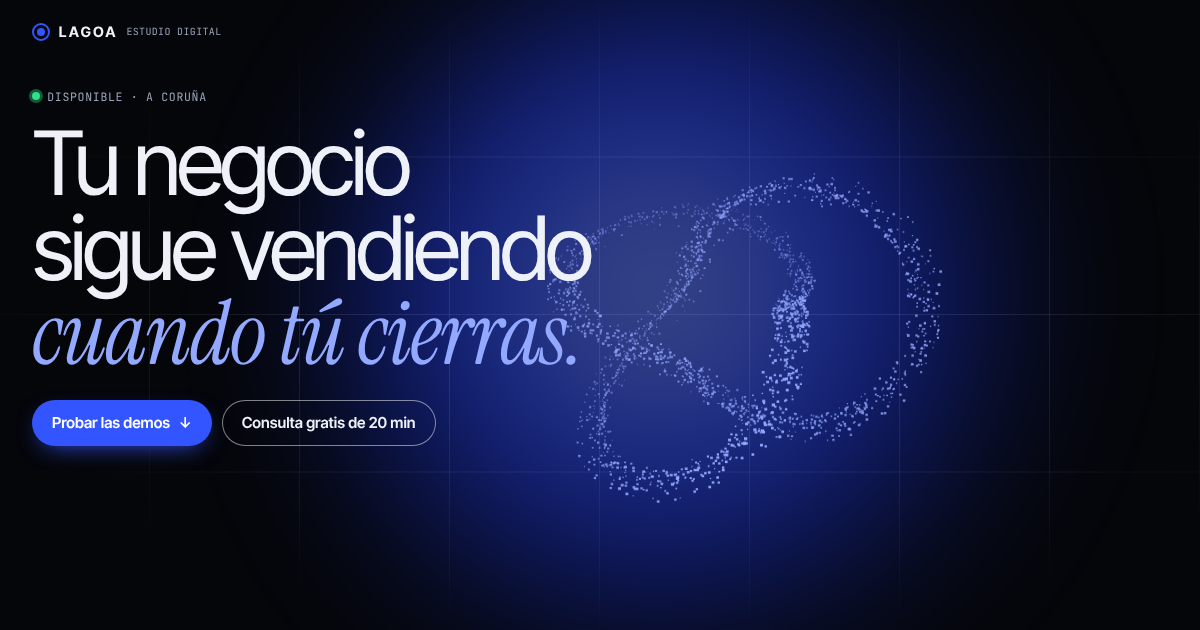
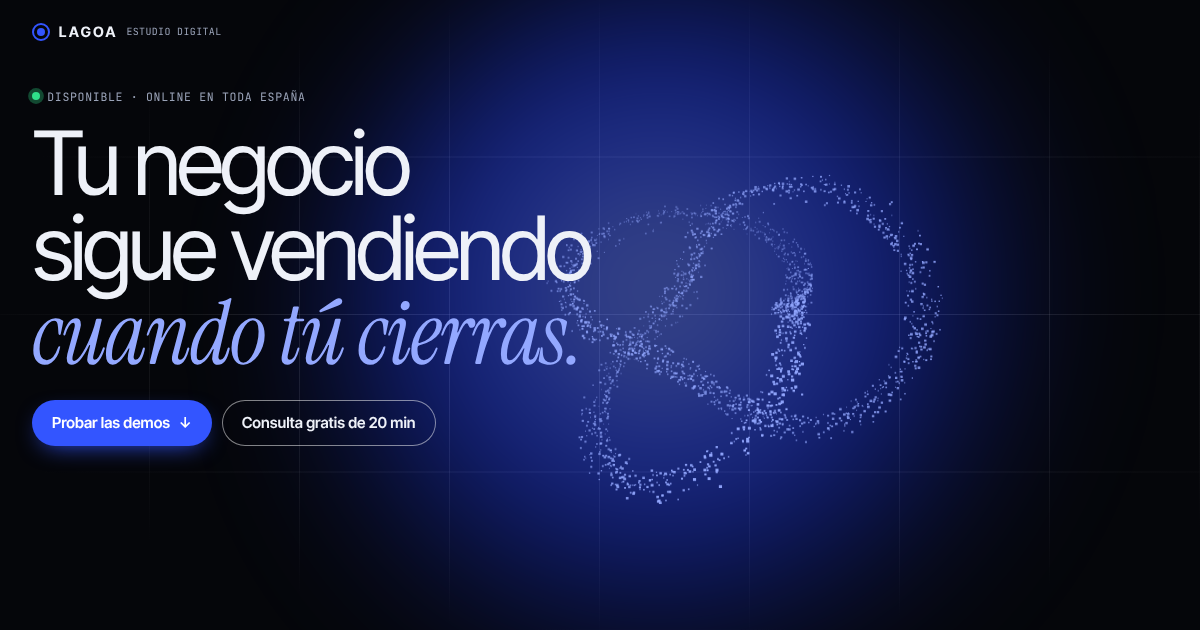
content: don't limit the studio to one city (copy, schema, bot, in-person option removed)
Claude-Session: https://claude.ai/code/session_014qfzgPxD5GvET3rt2GUXgf

diff --git a/web-profesional/api/_lib/bot.js b/web-profesional/api/_lib/bot.js
@@ -30,19 +30,19 @@ const T = {
       nadia: ['Hablar con Nadia', 'Te responde ella en persona']
     },
     b: { menu: 'Menú', reservar: 'Reservar consulta', nadia: 'Hablar con Nadia', confirmar: 'Confirmar', cambiar: 'Cambiar hora', cancelar: 'Cancelar', saltar: 'Saltar', si: 'Sí, cancelarla', no: 'No', soy: n => `Soy ${n}`, dias: 'Ver días', horas: 'Ver horas', otroDia: '« Otro día', libres: n => `${n} ${n === 1 ? 'hora libre' : 'horas libres'}`, anular: f => `Cancelar ${f}` },
-    servicios: () => `Ayudo a negocios en crecimiento de A Coruña a estar en internet sin complicaciones:\n\n${SERVICIOS.map(s => `• *${s.es}*: ${eur(s.precio)}`).join('\n')}\n• *${PACK.es}*: ${eur(PACK.precio)}\n\nTambién cosas a medida: panel de ventas y stock, facturas automáticas, tarjeta de fidelización y mucho más.`,
+    servicios: () => `Ayudamos a negocios en crecimiento a estar en internet sin complicaciones:\n\n${SERVICIOS.map(s => `• *${s.es}*: ${eur(s.precio)}`).join('\n')}\n• *${PACK.es}*: ${eur(PACK.precio)}\n\nTambién cosas a medida: panel de ventas y stock, facturas automáticas, tarjeta de fidelización y mucho más.`,
     precios: () => `Tarifas fijas de lanzamiento, pago único, *IVA incluido*:\n\n${SERVICIOS.map(s => `• ${s.es}: ${eur(s.precio)}`).join('\n')}\n• ${PACK.es}: ${eur(PACK.precio)}\n\nEl mantenimiento mensual es opcional (escribe *mantenimiento* para verlo).`,
     plazos: () => `Plazos orientativos:\n\n${[...SERVICIOS, PACK].map(s => `• ${s.es}: ${s.plazo.es}`).join('\n')}\n\nEmpiezan a contar cuando Nadia tiene tus textos y fotos.`,
     mantenimiento: () => `El mantenimiento es *opcional* y se puede cancelar cuando quieras (IVA incluido):\n\n${[...SERVICIOS.filter(s => s.mes), PACK].map(s => `• ${s.es}: ${eur(s.mes)}/mes`).join('\n')}\n\nIncluye copias de seguridad, revisión y parches en caso de error, cambios pequeños ilimitados y soporte por WhatsApp o email.`,
-    zona: () => 'Nadia trabaja con negocios de A Coruña. Si el tuyo está en otra zona, escríbele y valorará tu caso.',
+    zona: () => 'Trabajamos con negocios de toda España, en remoto: la consulta es por videollamada o llamada.',
     iva: () => 'Todos los precios ya incluyen el IVA (21 %).',
     pago: () => 'Las condiciones de pago las explica Nadia personalmente. Toca *Hablar con Nadia* y te responderá ella.',
     gracias: () => '¡Gracias a ti! Si necesitas algo más, aquí estoy.',
     noEntiendo: 'No estoy seguro de haberte entendido. Puedes elegir una opción del menú o hablar directamente con Nadia.',
     soloTexto: 'Por ahora solo puedo leer mensajes de texto. Si quieres enviar audios o fotos, toca *Hablar con Nadia*.',
     nadia: 'Perfecto. He avisado a Nadia y te responderá *personalmente por aquí* en cuanto pueda (normalmente el mismo día).\n\nMientras tanto el asistente queda en pausa. Si quieres volver a usarlo, escribe *menú*.',
-    modalidad: '¡Genial! La consulta rápida es *gratis y sin compromiso* (unos 20 minutos) para ver tu negocio y lo que más tiempo te quita.\n\n¿Cómo la prefieres? (En persona solo en A Coruña ciudad.)',
-    modos: ['Videollamada', 'Llamada', 'En persona'],
+    modalidad: '¡Genial! La consulta rápida es *gratis y sin compromiso* (unos 20 minutos) para ver tu negocio y lo que más tiempo te quita.\n\n¿Cómo la prefieres?',
+    modos: ['Videollamada', 'Llamada'],
     elegirDia: '¿Qué día te viene bien? Toca *Ver días*.',
     elegirHora: f => `Horas libres el *${f}* (hora de España). Toca *Ver horas*.`,
     sinHuecos: 'Ahora mismo no quedan horas libres en las próximas dos semanas. Escribe a Nadia y buscaréis un hueco.',
@@ -79,19 +79,19 @@ const T = {
       nadia: ['Falar con Nadia', 'Respóndeche ela en persoa']
     },
     b: { menu: 'Menú', reservar: 'Reservar consulta', nadia: 'Falar con Nadia', confirmar: 'Confirmar', cambiar: 'Cambiar hora', cancelar: 'Cancelar', saltar: 'Saltar', si: 'Si, cancelala', no: 'Non', soy: n => `Son ${n}`, dias: 'Ver días', horas: 'Ver horas', otroDia: '« Outro día', libres: n => `${n} ${n === 1 ? 'hora libre' : 'horas libres'}`, anular: f => `Cancelar ${f}` },
-    servicios: () => `Axudo a negocios en crecemento da Coruña a estar en internet sen complicacións:\n\n${SERVICIOS.map(s => `• *${s.gl}*: ${eur(s.precio)}`).join('\n')}\n• *${PACK.gl}*: ${eur(PACK.precio)}\n\nTamén cousas a medida: panel de vendas e stock, facturas automáticas, tarxeta de fidelización e moito máis.`,
+    servicios: () => `Axudamos a negocios en crecemento a estar en internet sen complicacións:\n\n${SERVICIOS.map(s => `• *${s.gl}*: ${eur(s.precio)}`).join('\n')}\n• *${PACK.gl}*: ${eur(PACK.precio)}\n\nTamén cousas a medida: panel de vendas e stock, facturas automáticas, tarxeta de fidelización e moito máis.`,
     precios: () => `Tarifas fixas de lanzamento, pagamento único, *IVE incluído*:\n\n${SERVICIOS.map(s => `• ${s.gl}: ${eur(s.precio)}`).join('\n')}\n• ${PACK.gl}: ${eur(PACK.precio)}\n\nO mantemento mensual é opcional (escribe *mantemento* para velo).`,
     plazos: () => `Prazos orientativos:\n\n${[...SERVICIOS, PACK].map(s => `• ${s.gl}: ${s.plazo.gl}`).join('\n')}\n\nComezan a contar cando Nadia ten os teus textos e fotos.`,
     mantenimiento: () => `O mantemento é *opcional* e pódese cancelar cando queiras (IVE incluído):\n\n${[...SERVICIOS.filter(s => s.mes), PACK].map(s => `• ${s.gl}: ${eur(s.mes)}/mes`).join('\n')}\n\nInclúe copias de seguridade, revisión e parches en caso de erro, cambios pequenos ilimitados e soporte por WhatsApp ou email.`,
-    zona: () => 'Nadia traballa con negocios da Coruña. Se o teu está noutra zona, escríbelle e valorará o teu caso.',
+    zona: () => 'Traballamos con negocios de toda España, en remoto: a consulta é por videochamada ou chamada.',
     iva: () => 'Todos os prezos xa inclúen o IVE (21 %).',
     pago: () => 'As condicións de pagamento explícaas Nadia persoalmente. Toca *Falar con Nadia* e responderache ela.',
     gracias: () => 'Grazas a ti! Se precisas algo máis, aquí estou.',
     noEntiendo: 'Non estou seguro de entenderte. Podes escoller unha opción do menú ou falar directamente con Nadia.',
     soloTexto: 'Polo de agora só podo ler mensaxes de texto. Se queres enviar audios ou fotos, toca *Falar con Nadia*.',
     nadia: 'Perfecto. Aviseille a Nadia e responderache *persoalmente por aquí* en canto poida (normalmente o mesmo día).\n\nMentres tanto o asistente queda en pausa. Se queres volver usalo, escribe *menú*.',
-    modalidad: 'Xenial! A consulta rápida é *de balde e sen compromiso* (uns 20 minutos) para ver o teu negocio e o que máis tempo che quita.\n\nComo a prefires? (En persoa só na cidade da Coruña.)',
-    modos: ['Videochamada', 'Chamada', 'En persoa'],
+    modalidad: 'Xenial! A consulta rápida é *de balde e sen compromiso* (uns 20 minutos) para ver o teu negocio e o que máis tempo che quita.\n\nComo a prefires?',
+    modos: ['Videochamada', 'Chamada'],
     elegirDia: 'Que día che vén ben? Toca *Ver días*.',
     elegirHora: f => `Horas libres o *${f}* (hora de España). Toca *Ver horas*.`,
     sinHuecos: 'Agora mesmo non quedan horas libres nas próximas dúas semanas. Escríbelle a Nadia e buscaredes un oco.',
@@ -280,7 +280,7 @@ export async function responder(chat, entrada) {
   switch (chat.paso) {
     case 'modalidad': {
       const m = id.match(/^mod:(\d)$/);
-      if (!m) return fin({ mensajes: [{ texto: L.usaBotones, botones: L.modos.map((x, i) => btn(`mod:${i}`, x)) }], paso: 'modalidad', datos });
+      if (!m || Number(m[1]) >= L.modos.length) return fin({ mensajes: [{ texto: L.usaBotones, botones: L.modos.map((x, i) => btn(`mod:${i}`, x)) }], paso: 'modalidad', datos });
       datos.modalidad = MODALIDADES[Number(m[1])];
       return fin(await preguntarDia(L, datos));
     }

diff --git a/web-profesional/index.html b/web-profesional/index.html
@@ -3,8 +3,8 @@
 <head>
 <meta charset="utf-8">
 <meta name="viewport" content="width=device-width, initial-scale=1, viewport-fit=cover">
-<title>Lagoa · Estudio digital en A Coruña</title>
-<meta name="description" content="Webs con reservas, asistente de WhatsApp, tiendas online y Google Maps para negocios de A Coruña. Precios cerrados con IVA incluido. Pruébalo todo en vivo.">
+<title>Lagoa · Estudio digital</title>
+<meta name="description" content="Webs con reservas, asistente de WhatsApp, tiendas online y Google Maps para negocios. Precios cerrados con IVA incluido. Pruébalo todo en vivo.">
 <link rel="canonical" href="https://lagoa-webs.vercel.app/">
 <meta name="theme-color" content="#eef0f4" media="(prefers-color-scheme: light)">
 <meta name="theme-color" content="#05060a" media="(prefers-color-scheme: dark)">
@@ -29,8 +29,7 @@
   "image": "https://lagoa-webs.vercel.app/img/og.png",
   "email": "nadialavi.work@gmail.com",
   "telephone": "+34613597453",
-  "areaServed": [{ "@type": "City", "name": "A Coruña" }],
-  "address": { "@type": "PostalAddress", "addressRegion": "A Coruña", "addressCountry": "ES" },
+  "areaServed": [{ "@type": "Country", "name": "España" }],
   "founder": { "@type": "Person", "name": "Nadia Lagoa Vilela", "jobTitle": "Desarrolladora de software" },
   "knowsLanguage": ["gl", "es", "en", "de", "fr"],
   "priceRange": "120 € – 430 € (IVA incluido)",
@@ -73,7 +72,7 @@
       <span class="reality__label">Cambiar realidad</span>
       <svg viewBox="0 0 24 24" aria-hidden="true"><circle cx="12" cy="12" r="9"/><ellipse cx="12" cy="12" rx="4" ry="9"/><path d="M3 12h18"/></svg>
     </button>
-    <p class="clock mono" aria-label="Hora local en A Coruña"><span>Hora local</span><b>COR <time id="clock">--:--</time></b></p>
+    <p class="clock mono" aria-label="Hora local en España"><span>Hora local</span><b>ESP <time id="clock">--:--</time></b></p>
     <a class="btn btn--sm top__cta" href="#contacto">Consulta gratis</a>
     <button class="top__menu" type="button" aria-expanded="false" aria-controls="sheet" aria-label="Abrir menú"><span></span></button>
   </div>
@@ -94,7 +93,7 @@
   <canvas class="hero__canvas" id="knot" aria-hidden="true"></canvas>
 
   <div class="hero__head">
-    <p class="tag mono"><span class="dot"></span>Disponible · A Coruña</p>
+    <p class="tag mono"><span class="dot"></span>Disponible · Online en toda España</p>
     <h1 id="hero-title">Tu negocio sigue vendiendo <em>cuando tú cierras.</em></h1>
     <div class="hero__cta">
       <a class="btn" href="#demo">Probar las demos <span aria-hidden="true">↓</span></a>
@@ -121,7 +120,7 @@
     </div>
     <div class="panel panel--me">
       <p class="panel__title mono">Lagoa · Estudio digital <button class="i" type="button" data-info="about" aria-label="Más sobre el estudio">i</button></p>
-      <p>Webs, reservas y ventas online para negocios de A Coruña. Respuesta en menos de 24 h.</p>
+      <p>Webs, reservas y ventas online para negocios. Respuesta en menos de 24 h.</p>
       <p class="pills">
         <a class="pill" data-wa="Hola, Nadia. Te escribo desde tu web." href="https://wa.me/34613597453">WhatsApp</a>
         <a class="pill" href="mailto:nadialavi.work@gmail.com">Email</a>
@@ -348,7 +347,7 @@
       <details class="faq"><summary>¿Cuándo empieza el plazo?</summary><p>Cuando tenemos tus textos y fotos. Confirmamos fechas antes de empezar.</p></details>
       <details class="faq"><summary>¿Hay costes aparte?</summary><p>Solo de terceros si aplican: dominio, pasarela de pago o tarifas de WhatsApp Business. Te lo decimos antes.</p></details>
       <details class="faq"><summary>¿El mantenimiento es obligatorio?</summary><p>No. Es opcional y se cancela cuando quieras.</p></details>
-      <details class="faq"><summary>¿Trabajas fuera de A Coruña?</summary><p>Nos centramos en A Coruña, pero escríbenos y lo vemos.</p></details>
+      <details class="faq"><summary>¿Trabajáis en toda España?</summary><p>Sí. Todo se hace en remoto: consulta por videollamada o teléfono.</p></details>
     </div>
 
     <div class="calc" aria-live="polite">
@@ -419,7 +418,6 @@
             <div class="radios">
               <label class="radio"><input type="radio" name="modalidad" value="Videollamada" checked> Videollamada</label>
               <label class="radio"><input type="radio" name="modalidad" value="Llamada de teléfono"> Teléfono</label>
-              <label class="radio"><input type="radio" name="modalidad" value="En persona (solo A Coruña ciudad)"> En persona <small>(A Coruña)</small></label>
             </div>
           </fieldset>
           <fieldset class="group">
@@ -481,7 +479,7 @@
 <!-- ================================== PIE ================================== -->
 <footer class="footer">
   <div class="wrap footer__grid">
-    <p><b class="mono">Lagoa</b>Estudio digital de Nadia Lagoa Vilela · A Coruña</p>
+    <p><b class="mono">Lagoa</b>Estudio digital de Nadia Lagoa Vilela</p>
     <p><b class="mono">Contacto</b><a href="mailto:nadialavi.work@gmail.com">nadialavi.work@gmail.com</a> · <a data-wa="Hola, Nadia. Te escribo desde tu web." href="https://wa.me/34613597453">+34 613 59 74 53</a></p>
     <p><b class="mono">Legal</b><a href="#" data-open-privacy>Privacidad</a> · Sin cookies · © <span id="year">2026</span></p>
   </div>
@@ -568,7 +566,7 @@
   <p class="note">No incluye páginas nuevas, rediseños, fotografía ni publicidad. Cancelable cuando quieras.</p>
 </template>
 <template id="i-about" data-kicker="EL ESTUDIO" data-title="Lagoa · Estudio digital">
-  <p>Estudio digital en A Coruña dirigido por Nadia Lagoa Vilela, desarrolladora de software. Diseño y desarrollo a medida, sin plantillas pesadas.</p>
+  <p>Estudio digital dirigido por Nadia Lagoa Vilela, desarrolladora de software. Diseño y desarrollo a medida, sin plantillas pesadas.</p>
   <ul class="ticks">
     <li>Atención en galego, castellano, English, Deutsch y français.</li>
     <li>Todo queda a tu nombre y te formamos para gestionarlo.</li>

diff --git a/web-profesional/assets/site.js b/web-profesional/assets/site.js
@@ -22,7 +22,7 @@ const CONFIG = {
   antelacionHoras: 12
 };
 // Deben coincidir con MODALIDADES de api/_lib/citas.js
-const MODALIDADES = ['Videollamada', 'Llamada de teléfono', 'En persona (solo A Coruña ciudad)'];
+const MODALIDADES = ['Videollamada', 'Llamada de teléfono'];
 
 /* Precios FINALES con IVA. Una sola fuente para calculadora y asistente. */
 const SERVICES = [
@@ -234,7 +234,7 @@ tabs.forEach((t, i) => {
    AGENDA compartida por el formulario y el asistente.
    Usa la API real (/api/disponibilidad, /api/reservas); si no
    responde, usa el horario de CONFIG y la reserva va por email.
-   Todas las horas son de A Coruña (Europe/Madrid), estés donde estés.
+   Todas las horas son de España peninsular (Europe/Madrid), estés donde estés.
    ============================================================= */
 const Agenda = (function agenda() {
   let horario = CONFIG.horario, diasVista = CONFIG.diasVista, antelacion = CONFIG.antelacionHoras;
@@ -522,7 +522,7 @@ $('#portfolio-load').addEventListener('click', () => {
         pago: () => 'Las condiciones de pago te las explica Nadia en persona. ¿Te paso con ella?',
         demo: () => 'Arriba tienes demos que funcionan: una tienda con carrito y panel de pedidos, un WhatsApp que reserva y una ficha de Google antes/después.',
         portfolio: () => 'Tienes sus proyectos publicados en la sección Portfolio.',
-        zona: () => 'Trabaja sobre todo en A Coruña. Si estás en otra zona, escríbele y lo veis.',
+        zona: () => 'Trabajamos con negocios de toda España, en remoto: la consulta es por videollamada o teléfono.',
         idiomas: () => 'Nadia te atiende en galego, castellano, English, Deutsch y français.',
         propiedad: () => 'Todo queda a tu nombre y te enseña a gestionarlo.',
         wordpress: () => 'Nada de WordPress ni plugins: código a medida, ligero y sin actualizaciones pendientes. Por eso esta web carga al instante.',
@@ -533,7 +533,7 @@ $('#portfolio-load').addEventListener('click', () => {
       },
       f: {
         mod: 'Genial. La consulta es gratis (20 min). ¿Cómo la prefieres?',
-        mods: ['Videollamada', 'Teléfono', 'En persona (A Coruña)'],
+        mods: ['Videollamada', 'Teléfono'],
         day: '¿Qué día? (hora de España)',
         hour: d => `Horas libres el ${d}:`,
         none: 'Ahora mismo no quedan huecos. Escríbele a Nadia y buscáis uno.',

diff --git a/web-profesional/assets/lab.js b/web-profesional/assets/lab.js
@@ -473,12 +473,12 @@
       before: {
         cat: 'Tienda', reviews: '(3 · sin responder)', pos: '7.º',
         photos: [['Borrosa', '#9aa0a6'], ['', '#dadce0'], ['', '#e8eaed'], ['', '#f1f3f4']],
-        rows: [['bad', '🕒 Horario sin añadir'], ['bad', '📝 Sin descripción'], ['', '📍 Rúa Exemplo, 3 · A Coruña'], ['bad', '💬 3 reseñas sin respuesta']]
+        rows: [['bad', '🕒 Horario sin añadir'], ['bad', '📝 Sin descripción'], ['', '📍 Rúa Exemplo, 3'], ['bad', '💬 3 reseñas sin respuesta']]
       },
       after: {
         cat: 'Frutería · Verdura de temporada · Reparto', reviews: '(3 · todas respondidas)', pos: '2.º',
         photos: [['Fachada', '#c96f2c'], ['Fruta', '#d0492f'], ['Verdura', '#4f8a3a'], ['Equipo', '#5e5a7a']],
-        rows: [['good', '🕒 Abierto · cierra a las 14:00'], ['good', '📝 Frutería de barrio con fruta fresca y reparto a domicilio'], ['', '📍 Rúa Exemplo, 3 · A Coruña'], ['good', '💬 “Moitas grazas, Antía…” — respuesta del propietario']]
+        rows: [['good', '🕒 Abierto · cierra a las 14:00'], ['good', '📝 Frutería de barrio con fruta fresca y reparto a domicilio'], ['', '📍 Rúa Exemplo, 3'], ['good', '💬 “Moitas grazas, Antía…” — respuesta del propietario']]
       }
     };
     const CHECKS = ['Categoría correcta', 'Horario completo', 'Descripción con palabras clave', 'Fotos que venden', 'Reseñas respondidas'];

diff --git a/web-profesional/api/_lib/citas.js b/web-profesional/api/_lib/citas.js
@@ -5,7 +5,7 @@
 import { query } from './db.js';
 import { hoyMadrid } from './horario.js';
 
-export const MODALIDADES = ['Videollamada', 'Llamada de teléfono', 'En persona (solo A Coruña ciudad)'];
+export const MODALIDADES = ['Videollamada', 'Llamada de teléfono', 'En persona'];
 export const MAX_CITAS_POR_TELEFONO = 2; // citas futuras activas a la vez (frena reservas en masa)
 
 /** Mismo número aunque se escriba distinto (+34 600…, 600-…): se comparan los 9 últimos dígitos */

diff --git a/web-profesional/api/_lib/horario.js b/web-profesional/api/_lib/horario.js
@@ -14,7 +14,7 @@ export const HORARIO = {
 };
 export const DIAS_VISTA = 14;        // cuántos días por delante se pueden reservar
 export const ANTELACION_HORAS = 12;  // antelación mínima
-export const ZONA = 'Europe/Madrid'; // las horas son siempre hora de A Coruña
+export const ZONA = 'Europe/Madrid'; // las horas son siempre hora peninsular española
 
 const RE_FECHA = /^\d{4}-\d{2}-\d{2}$/;
 const RE_HORA = /^([01]\d|2[0-3]):[0-5]\d$/;

diff --git a/web-profesional/admin/index.html b/web-profesional/admin/index.html
@@ -227,7 +227,7 @@ dialog form { display: grid; gap: .8rem; }
       <select id="c-modalidad" name="modalidad">
         <option>Videollamada</option>
         <option>Llamada de teléfono</option>
-        <option>En persona (solo A Coruña ciudad)</option>
+        <option>En persona</option>
       </select>
     </div>
     <div class="field"><label for="c-nota">Nota</label><textarea id="c-nota" name="nota" rows="2"></textarea></div>
